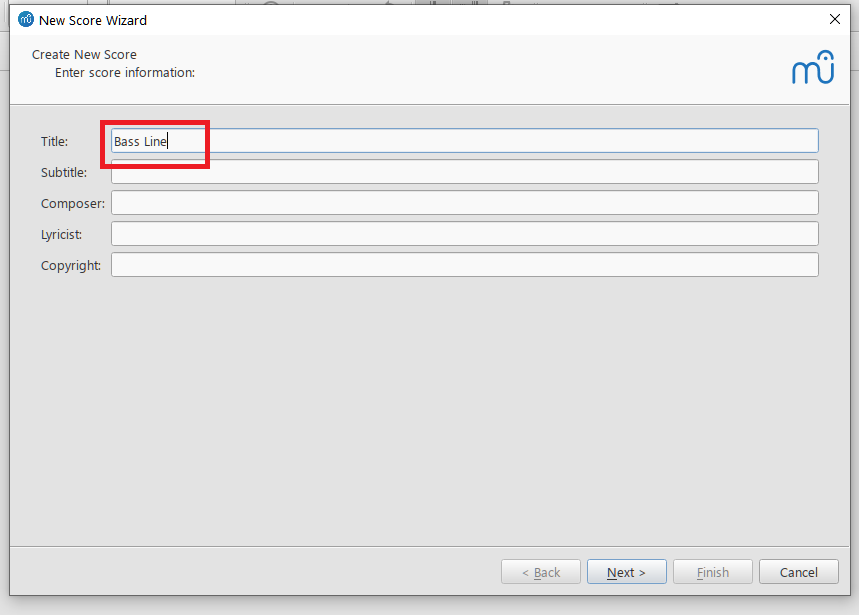
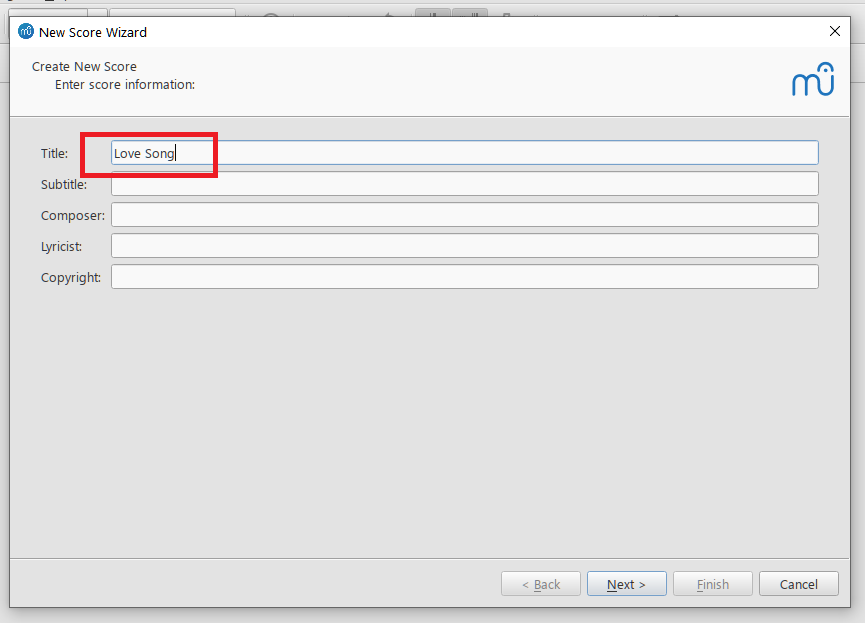
Various edits
Edits

Edits

Changed region(s): [[0.0, 0.0, 0.9988, 0.9886]]

diff --git a/user-assistance/creating-a-score-file.md b/user-assistance/creating-a-score-file.md
@@ -1,38 +1,48 @@
 # Creating A Score File
 
-In order to create score files, you should have downloaded and installed the program. To create a score file&mdash;to which MuseScore gives by default the extension ".mscz"&mdash;follow the steps below.
+In order to create score files, you should have downloaded and installed the program. To create a score file, follow the steps below.
 
-1. Launch MuseScore. You should see the screen below:
-
-   ![MuseScore Screen](pictures/musescore-screen.png)
-
+1. Launch MuseScore.
 2. Create a new document by selecting _File_ > _New_ which opens the "_New Score Wizard_" you can see below:
 
    ![New Score wizard](pictures/new-score-wizard.png)
 
-   Here you can enter a title for the document&mdash;here, our title is simply "Bass Line"&mdash;after which you click _Next_.
+   Here you can enter a title for the document&mdash;here, our title is simply "Love Song"&mdash;after which you click _Next_.
 
-3. In the next screen, when you click on _Choose Instruments_ a list of instruments will appear. Here, expand the _Strings - Plucked_ branch and select _Electric Bass_:
+3. In the next screen, double click on _Choose Instruments_.
 
-   ![Select instruments](pictures/select-electric-bass.png)
+   ![Choose instruments](pictures/choose-instruments.png)
 
-   Once you've selected it, you can either double click it or click the _Add to score_ button to add the instrument to the right pane.
+4. A list of instruments will appear. Here, expand the _Keyboards_ branch and select _Piano_.   Once you've selected it, you can either double click the instrument's name or click the _Add to score_ button to add the instrument to the right pane.
 
-   ![Add the instruments to the score](pictures/add-bass-to-score.png)
+   ![Add keyboards to instruments](pictures/keyboards-piano.png)
 
-4. After this you can click _Next_ again to move to the screen where you can pick a key signature:
+   Then do the same for _Electric Bass_ and _Drums_. Once these are also added, the right-hand pane should look like this:
+
+   ![Selected instruments](pictures/selected-instruments.png)
+
+   Click _Next_ again.
+
+5. One the next screen, you can pick a key signature:
 
    ![Choose key signature](pictures/choose-key-signature.png)
 
-   Here, we will pick the single-sharp (#) _E minor_ as our key and click _Next_. We arrive at the final screen where we can pick a time signature, number of bars, and tempo. We will pick the defaults and click _Finish_ to complete the wizard:
+   Here, we will pick the single-sharp (#) _E minor_ as our key and click _Next_.
+
+6. We have arrived at the final screen of the wizard where we can pick a time signature, number of bars, and tempo.
 
    ![Chose time signature and tempo](pictures/choose-time-signature-and-tempo.png)
 
-5. After the wizard closes, the score should look like this:
+   Pick the defaults and click _Finish_ to complete the wizard:
+
+7. After the wizard closes, the score should look like this:
 
    ![Created score](pictures/created-score.png)
 
-Don't forget to click _File_ > _Save_ to save your newly created score. MuseScore will provide a default filename based on the title of the score, replacing spaces with underscores&mdash;in our case, that will be "Bass_Line".
-
 > __NOTE__
 > If you are not happy with the page size, this can be changed by going to _Format_ > _Page Settings_ and picking the desired page size from the _Page Size_ drop down box.
+
+Don't forget to click _File_ > _Save_ to save your newly created score. MuseScore will suggest a filename based on the title of the score, replacing spaces with underscores&mdash;in our case, that will be "Love_Song".
+
+> __WARNING__
+> By default, MuseScore files have the __.mscz__ extension. Although this is actually a __zip__ file, it should not be modified as MuseScore will not recognize any other extension.

diff --git a/user-assistance/creating-a-music-part.md b/user-assistance/creating-a-music-part.md
@@ -6,7 +6,7 @@ In this topic, we will show you how to enter a music part in a MuseScore documen
 
 For creating the score file in which you will enter the part, see [Creating A Score File](creating-a-score-file.md).
 
-## Entering the notes
+## Entering notes
 
 We will assume you will enter the notes using your mouse and keyboard.
 
@@ -18,11 +18,11 @@ For our purposes, the first option&mdash;_Note Input_&mdash;is good enough. Note
 
 ![Activate note entry](pictures/activate-note-entry.png)
 
-## The onscreen keyboard
+## Onscreen keyboard
 
 If entering the notes by typing their letters on the keyboard is not intuitive enough for you, you can try a more __visual__ method: using the onscreen keyboard. Typing _P_ on the keyboard opens a piano keyboard at the bottom of the score screen.
 
-> __WARNING__
+> __NOTE__
 > This topic does not show the MIDI-based method of using an external keyboard&mdash;such as a synthesizer&mdash;for note entry.
 
 ![Onscreen keyboard](pictures/onscreen-keyboard.png)

diff --git a/user-assistance/frequently-used-features.md b/user-assistance/frequently-used-features.md
@@ -1,0 +1,16 @@
+# Frequently Used Features
+
+MuseScore users may need to access the following features&mdash;either via menus of by keyboard shortcuts&mdash;when they are creating scores:
+
+|Feature|Menu Location|Shortcut Key|
+|---|---|---|
+Instruments|_Edit_ > _Instruments_|__I__|
+|Onscreen keyboard|_View_ > _Piano Keyboard_|__P__|
+|Transposing|_Tools_ > _Transpose_|-|
+|Sound mixer|_View_ > _Mixer_|__F10__|
+|Page size|_Format_ > _Page Settings_|-|
+|Zooming|_View_ > _Zoom in/out_|__Ctrl__ __+__/__-__|
+|Inserting bars|_Add_ > _Bars_|__Ins__ or __Ctrl__ __Ins__|
+|Editing elements|_View_ > _Master Palette..._|__Shift__ __F9__|
+
+MuseScore also provides various symbols for articulation, dynamics, barlines, etc. under various __palettes__ that can be found on the left hand panel.

diff --git a/user-assistance/introduction.md b/user-assistance/introduction.md
@@ -14,7 +14,7 @@ Users can enter music parts by using a mouse, a computer keyboard, a digital mus
 
 Below, you can see a sample generated output:
 
-![A sample score](score-sample.png)
+![A sample score](pictures/score-sample.png)
 
 The installation files of the program for Windows, Mac OS, and Linux can be downloaded from the official [MuseScore](https://www.musescore.com) site.
 
